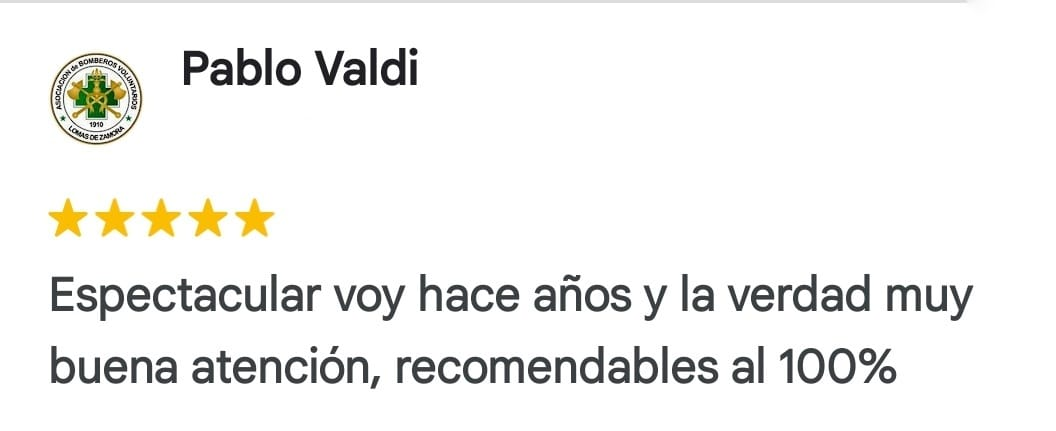
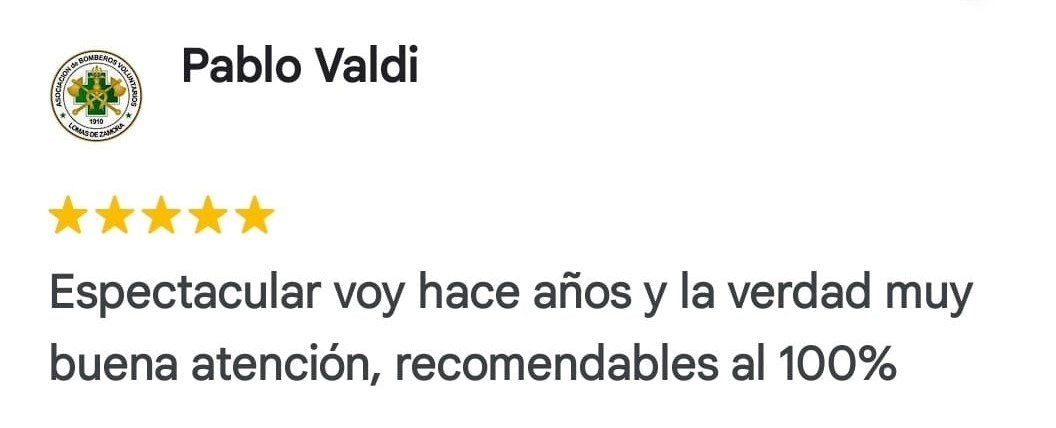
commit_reseña

diff --git a/index.html b/index.html
@@ -201,8 +201,8 @@
     <section id="resenias">
         <h2>Reseñas</h2>
         <div class="resenia">
-            <a href=""><img id="imagen1" src="recursos/reseña1.jpeg" alt=""></a>
-            <a href=""><img id="imagen2" src="recursos/reseña2.jpeg" alt=""></a>
+            <a href=""><img id="imagen1" src="recursos/reseña1.png" alt=""></a>
+            <a href=""><img id="imagen2" src="recursos/reseña2.png" alt=""></a>
         </div>
     </section>
     <script>
@@ -217,15 +217,15 @@
         const imagen9 = document.getElementById("imagen9");
 
         const imagenes = [
-            "recursos/reseña1.jpeg",
-            "recursos/reseña2.jpeg",
-            "recursos/reseña3.jpeg",
-            "recursos/reseña4.jpeg",
-            "recursos/reseña5.jpeg",
-            "recursos/reseña6.jpeg",
-            "recursos/reseña7.jpeg",
-            "recursos/reseña8.jpeg",
-            "recursos/reseña9.jpeg",
+            "recursos/reseña1.png",
+            "recursos/reseña2.png",
+            "recursos/reseña3.png",
+            "recursos/reseña4.png",
+            "recursos/reseña5.png",
+            "recursos/reseña6.png",
+            "recursos/reseña7.png",
+            "recursos/reseña8.png",
+            "recursos/reseña9.png",
         ];
 
         let index = 0;
